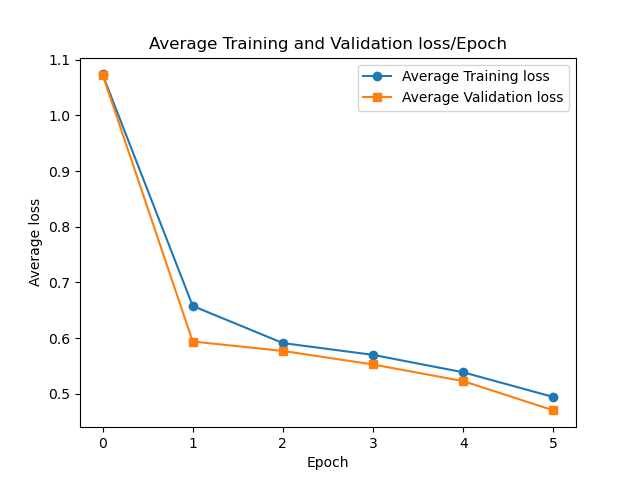
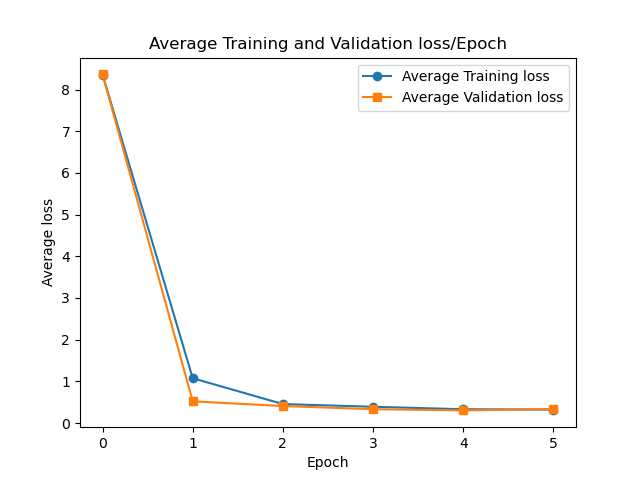
num_layers: 2

diff --git a/next3.py b/next3.py
@@ -36,7 +36,8 @@ nbins=2 ##YB how many categories adversary network tries to predict  #ADV-ED COM
 parser = argparse.ArgumentParser(description="describe epoch numbers plot")
 parser.add_argument("--epochs", "-e", type=int, default=5, help="Number of training epochs")
 #CS230 FOR ACTIVATION CHOICES
-parser.add_argument("--activation", type=str, default="relu", choices=["relu", "leaky_relu", "tanh", "sigmoid"], help="Number of training epochs")
+parser.add_argument("--activation", type=str, default="relu", choices=["relu", "leaky_relu", "tanh", "sigmoid"], help="Activation function")
+parser.add_argument("--num_layers", type=int, default=1, choices=[1, 2, 5, 8], help="Number of hidden layers")
 #CS230 FOR ACTIVATION CHOICES
 args = parser.parse_args()
 EPOCH=args.epochs
@@ -69,8 +70,11 @@ class Classifier(torch.nn.Module):
     #2 hidden layers: def __init__(self, input_dim, hidden_dim=64, hidden_dim2=64):
 
     #CS230 ACTIVATION RELU ADDED TO PARAMETER
-    def __init__(self, input_dim, hidden_dim=64, activation="relu"):
+    def __init__(self, input_dim, hidden_dim=64, num_layers=1, activation="relu"):
         super().__init__()
+        #CS230
+        self.num_layers = num_layers
+        #CS230
         activation_name = activation.lower()
         if activation_name == "relu":
             activation_layer= torch.nn.ReLU()
@@ -82,16 +86,94 @@ class Classifier(torch.nn.Module):
             activation_layer= torch.nn.Sigmoid()
         else:
             raise ValueError("unknown activation: {activation}")
-            
-        self.net = torch.nn.Sequential(
+        
+        if num_layers == 1:
+            self.net = torch.nn.Sequential(
             torch.nn.Linear(input_dim, hidden_dim),
             activation_layer,
-            #2 hidden layers: torch.nn.Linear(hidden_dim, hidden_dim2), #TO CHANGEEEEE
-            #2 hidden layers: torch.nn.Linear(hidden_dim2, 1)  # 1-class output
             torch.nn.Linear(hidden_dim, 1)  # 1-class output
         )
+            
+        elif num_layers == 2:
+            self.net = torch.nn.Sequential(
+            torch.nn.Linear(input_dim, hidden_dim),
+            activation_layer,
+            torch.nn.Linear(hidden_dim, hidden_dim),
+            activation_layer,
+            torch.nn.Linear(hidden_dim, 1)  
+            )
+
+        elif num_layers == 5:
+            self.net = torch.nn.Sequential(
+            torch.nn.Linear(input_dim, hidden_dim),
+            activation_layer,
+            torch.nn.Linear(hidden_dim, hidden_dim),
+            activation_layer,
+            torch.nn.Linear(hidden_dim, hidden_dim),
+            activation_layer,
+            torch.nn.Linear(hidden_dim, hidden_dim),
+            activation_layer,
+            torch.nn.Linear(hidden_dim, hidden_dim),
+            activation_layer,
+            torch.nn.Linear(hidden_dim, 1)  
+            )
+
+        elif num_layers == 8:
+            self.net = torch.nn.Sequential(
+            torch.nn.Linear(input_dim, hidden_dim),
+            activation_layer,
+            torch.nn.Linear(hidden_dim, hidden_dim),
+            activation_layer,
+            torch.nn.Linear(hidden_dim, hidden_dim),
+            activation_layer,
+            torch.nn.Linear(hidden_dim, hidden_dim),
+            activation_layer,
+            torch.nn.Linear(hidden_dim, hidden_dim),
+            activation_layer,
+            torch.nn.Linear(hidden_dim, hidden_dim),
+            activation_layer,
+            torch.nn.Linear(hidden_dim, hidden_dim),
+            activation_layer,
+            torch.nn.Linear(hidden_dim, hidden_dim),
+            activation_layer,
+            torch.nn.Linear(hidden_dim, 1)  
+            )
+        else:
+            raise ValueError("unknown num_layers: {num_layers}")
 
     def forward(self, x):
+        if self.num_layers == 1:
+            h1 = self.net[1](self.net[0](x))     # after first activation
+            coding = h1
+            out = self.net[2](coding).squeeze(-1)
+
+        elif self.num_layers == 2:
+            h1 = self.net[1](self.net[0](x))
+            h2 = self.net[3](self.net[2](h1))
+            coding = h2
+            out = self.net[4](coding).squeeze(-1)
+
+        elif self.num_layers == 5:
+            h1 = self.net[1](self.net[0](x))
+            h2 = self.net[3](self.net[2](h1))
+            h3 = self.net[5](self.net[4](h2))
+            h4 = self.net[7](self.net[6](h3))
+            h5 = self.net[9](self.net[8](h4))
+            coding = h5
+            out = self.net[10](coding).squeeze(-1)
+
+        elif self.num_layers == 8:
+            h1 = self.net[1](self.net[0](x))
+            h2 = self.net[3](self.net[2](h1))
+            h3 = self.net[5](self.net[4](h2))
+            h4 = self.net[7](self.net[6](h3))
+            h5 = self.net[9](self.net[8](h4))
+            h6 = self.net[11](self.net[10](h5))
+            h7 = self.net[13](self.net[12](h6))
+            h8 = self.net[15](self.net[14](h7))
+            coding = h8
+            out = self.net[16](coding).squeeze(-1)
+
         #ADV-ED COMMENTED OUT
         #NEW EDITION BELOW
         """
@@ -99,6 +181,7 @@ class Classifier(torch.nn.Module):
         out = self.classifier_head(features).squeeze(-1)
         return out, features                         # return both
          """
+        """ CS230 COMMENTED OUT
         coding = self.net[1](self.net[0](x))              # hidden layer output
         hidden_pre_relu = self.net[0](x)
         if torch.isnan(hidden_pre_relu).any() or torch.isinf(hidden_pre_relu).any():
@@ -106,10 +189,14 @@ class Classifier(torch.nn.Module):
         hidden_post_relu = self.net[1](hidden_pre_relu)
         if torch.isnan(hidden_post_relu).any() or torch.isinf(hidden_post_relu).any():
             print('[DIAG] NaNs or Infs after ReLU')
+
+        CS230 COMMENTED OUT """
         #print('[DIAG] Hidden pre-ReLU shape:', hidden_pre_relu.shape)
         #print('[DIAG] Hidden post-ReLU shape:', hidden_post_relu.shape)
+        """
         coding = hidden_post_relu
         out = self.net[2](coding).squeeze(-1)             # classifier output
+       CS230 COMMENTED OUT """
        #TRY THIS?
         """ if torch.isnan(coding).any():
             print("⚠ NaNs detected in coding!")
@@ -294,7 +381,7 @@ test_loader = DataLoader(test_dataset, batch_size=128, drop_last=True)
 ## YB assigns a mixing weight = 50 to control how strongly the adversary affects training. 
 
 #CS230 ADDED HIDDEN_DIM AND ACTIVATION= ARGUMENTS
-classifier = Classifier(input_dim=X.shape[1], hidden_dim=64, activation=args.activation) 
+classifier = Classifier(input_dim=X.shape[1], hidden_dim=64, num_layers=args.num_layers, activation=args.activation) 
 ##YB TO DO: Change the number of dimensions
 #changed from 1 to 5
 adversary = Adversary(input_dim=64)  # match classifier output logits
